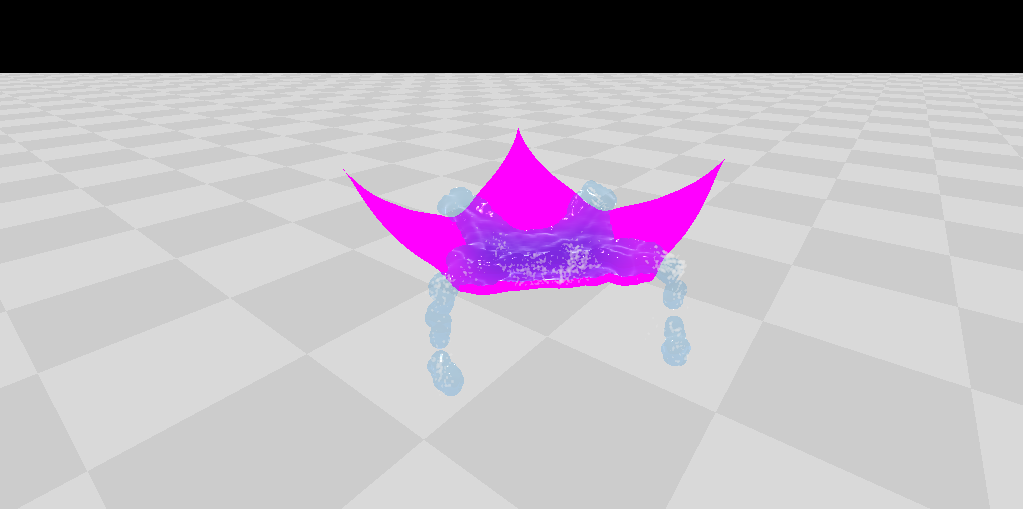
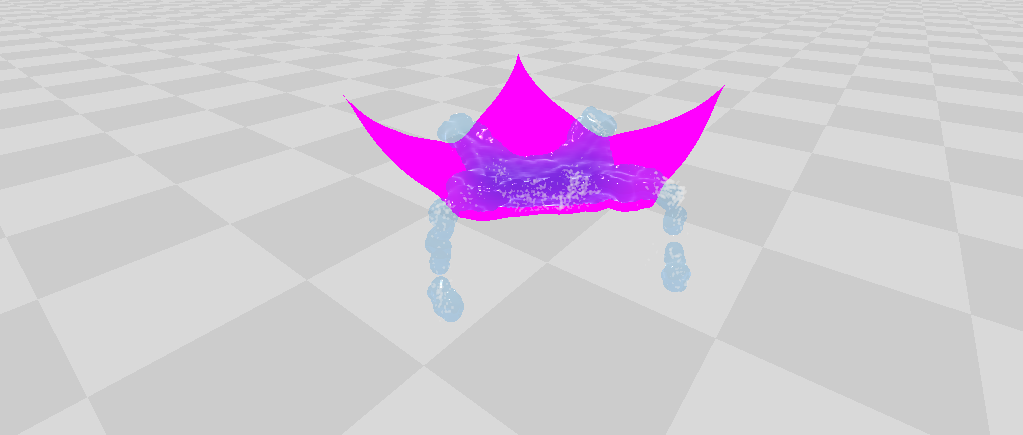
video settings

Changed region(s): [[0.0, 0.0, 1.0, 0.7172], [0.3939, 0.5977, 0.4545, 0.777]]

diff --git a/PositionBasedFluids/ParticleSystem.cpp b/PositionBasedFluids/ParticleSystem.cpp
@@ -8,103 +8,7 @@ static int flag = 1;
 static int frameCounter = 0;
 static const float deltaT = 0.0083f;
 
-ParticleSystem::ParticleSystem() : running(false), moveWall(false), s(new solver) {
-	//Initialize cloth particles
-	/*float stretchStiffness = 0.9f;
-	float bendStiffness = 1.0f;
-	float shearStiffness = 0.9f;
-
-	int baseIndex = count;
-	int c1, c2, c3, c4;
-	for (float i = 1; i < 33; i++) {
-		for (float j = 1; j < 33; j++) {
-			tempParticles[count].invMass = .5f;
-			tempParticles[count].newPos = glm::vec3(float(i) / 20, 2.0f, float(j) / 20);
-			tempParticles[count].oldPos = glm::vec3(float(i) / 20, 2.0f, float(j) / 20);
-			tempParticles[count].velocity = glm::vec3(0.0f);
-			tempParticles[count].phase = 1;
-			if (j == 1.0f && i == 1.0f) {
-				tempParticles[count].invMass = 0;
-				c1 = count;
-			}
-			if (i == 33 - 1 && j == 1.0f) {
-				tempParticles[count].invMass = 0;
-				c2 = count;
-			}
-			if (j == 33 - 1 && i == 33 - 1) {
-				tempParticles[count].invMass = 0;
-				c3 = count;
-			}
-			if (i == 1.0f && j == 33 - 1) {
-				tempParticles[count].invMass = 0;
-				c4 = count;
-			}
-			count++;
-		}
-	}
-	
-	//Horizontal Distance constraints
-	p->numConstraints = 0;
-	for (int j = 0; j < 32; j++) {
-		for (int i = 0; i < 32; i++) {
-			int i0 = j * 32 + i;
-			if (i > 0) {
-				int i1 = j * 32 + i - 1;
-				tempdConstraints.push_back(DistanceConstraint(baseIndex + i0, baseIndex + i1, glm::length(tempParticles[baseIndex + i0].oldPos - tempParticles[baseIndex + i1].oldPos), stretchStiffness));
-				p->numConstraints++;
-			}
-
-			if (i > 1) {
-				int i2 = j * 32 + i - 2;
-				tempdConstraints.push_back(DistanceConstraint(baseIndex + i0, baseIndex + i2, glm::length(tempParticles[baseIndex + i0].oldPos - tempParticles[baseIndex + i2].oldPos), bendStiffness));
-				p->numConstraints++;
-			}
-
-			if (j > 0 && i < 31) {
-				int iDiag = (j - 1) * 32 + i + 1;
-				tempdConstraints.push_back(DistanceConstraint(baseIndex + i0, baseIndex + iDiag, glm::length(tempParticles[baseIndex + i0].oldPos - tempParticles[baseIndex + iDiag].oldPos), shearStiffness));
-				p->numConstraints++;
-			}
-
-			if (j > 0 && i > 0) {
-				int iDiag = (j - 1) * 32 + i - 1;
-				tempdConstraints.push_back(DistanceConstraint(baseIndex + i0, baseIndex + iDiag, glm::length(tempParticles[baseIndex + i0].oldPos - tempParticles[baseIndex + iDiag].oldPos), shearStiffness));
-				p->numConstraints++;
-			}
-		}
-	}
-
-	//Vertical Distance constraints
-	for (int i = 0; i < 32; i++) {
-		for (int j = 0; j < 32; j++) {
-			int i0 = j * 32 + i;
-			if (j > 0) {
-				int i1 = (j - 1) * 32 + i;
-				tempdConstraints.push_back(DistanceConstraint(baseIndex + i0, baseIndex + i1, glm::length(tempParticles[baseIndex + i0].oldPos - tempParticles[baseIndex + i1].oldPos), stretchStiffness));
-				p->numConstraints++;
-			}
-
-			if (j > 1) {
-				int i1 = (j - 2) * 32 + i;
-				tempdConstraints.push_back(DistanceConstraint(baseIndex + i0, baseIndex + i1, glm::length(tempParticles[baseIndex + i0].oldPos - tempParticles[baseIndex + i1].oldPos), bendStiffness));
-				p->numConstraints++;
-			}
-		}
-	}
-
-	//Tethers
-	float stiffness = -0.5f;
-	for (int i = baseIndex; i < count; i++) {
-		if (tempParticles[i].invMass > 0) {
-			tempdConstraints.push_back(DistanceConstraint(c1, i, glm::length(tempParticles[c1].oldPos - tempParticles[i].oldPos), stiffness));
-			tempdConstraints.push_back(DistanceConstraint(c2, i, glm::length(tempParticles[c2].oldPos - tempParticles[i].oldPos), stiffness));
-			tempdConstraints.push_back(DistanceConstraint(c3, i, glm::length(tempParticles[c3].oldPos - tempParticles[i].oldPos), stiffness));
-			tempdConstraints.push_back(DistanceConstraint(c4, i, glm::length(tempParticles[c4].oldPos - tempParticles[i].oldPos), stiffness));
-			p->numConstraints += 4;
-		}
-	}*/
-
-}
+ParticleSystem::ParticleSystem() : running(false), moveWall(false), s(new solver) {}
 
 ParticleSystem::~ParticleSystem() {
 	cudaCheck(cudaFree(s->oldPos));

diff --git a/PositionBasedFluids/Renderer.cpp b/PositionBasedFluids/Renderer.cpp
@@ -3,10 +3,10 @@
 
 using namespace std;
 
-static const int width = 1024;
-static const int height = 512;
-static const float zFar = 20.0f;
-static const float zNear = 1.0f;
+static const int width = 1280;
+static const int height = 720;
+static const float zFar = 200.0f;
+static const float zNear = 5.0f;
 static const float aspectRatio = width / height;
 static const glm::vec2 screenSize = glm::vec2(width, height);
 static const glm::vec2 blurDirX = glm::vec2(1.0f / screenSize.x, 0.0f);
@@ -327,7 +327,7 @@ void Renderer::renderWater(glm::mat4 &projection, glm::mat4 &mView, Camera &cam,
 
 	setMatrix(thickness, mView, "mView");
 	setMatrix(thickness, projection, "projection");
-	setFloat(depth, radius * 4.0f, "pointRadius");
+	setFloat(depth, radius * 2.0f, "pointRadius");
 	setFloat(depth, width / aspectRatio * (1.0f / tanf(cam.zoom * 0.5f)), "pointScale");
 
 	glEnable(GL_BLEND);

diff --git a/PositionBasedFluids/main.cpp b/PositionBasedFluids/main.cpp
@@ -15,8 +15,8 @@
 
 #define cudaCheck(x) { cudaError_t err = x; if (err != cudaSuccess) { printf("Cuda error: %d in %s at %s:%d\n", err, #x, __FILE__, __LINE__); assert(0); } }
 
-static const int width = 1024;
-static const int height = 512;
+static const int width = 1280;
+static const int height = 720;
 static const GLfloat lastX = (width / 2);
 static const GLfloat lastY = (height / 2);
 static float deltaTime = 0.0f;
@@ -153,8 +153,8 @@ void saveVideo() {
 }
 
 void initializeState(ParticleSystem &system, tempSolver &tp, solverParams &tempParams) {
-	//DamBreak scene("DamBreak");
-	FluidCloth scene("FluidCloth");
+	DamBreak scene("DamBreak");
+	//FluidCloth scene("FluidCloth");
 	scene.init(&tp, &tempParams);
 	system.initialize(tp, tempParams);
 }

diff --git a/PositionBasedFluids/Camera.hpp b/PositionBasedFluids/Camera.hpp
@@ -27,7 +27,7 @@ public:
 	float mouseSens;
 	GLfloat zoom;
 
-	Camera() : eye(glm::vec3(0.0f, 3.0f, 6.0f)),
+	Camera() : eye(glm::vec3(-5.0f, 9.0f, 13.0f)),
 		front(glm::normalize(glm::vec3(cos(glm::radians(-90.0f)), 0.0f, sin(glm::radians(-90.0f))))),
 		up(glm::vec3(0.0f, 1.0f, 0.0f)),
 		right(glm::cross(up, (eye - front))),
@@ -39,8 +39,8 @@ public:
 	{}
 
 	glm::mat4 getMView() {
-		//return glm::lookAt(eye, glm::vec3(0.0f, 1.0f, 0.0f), up);
-		return glm::lookAt(eye, eye + front, up);
+		return glm::lookAt(eye, glm::vec3(4.0f, 1.0f, 2.0f), up);
+		//return glm::lookAt(eye, eye + front, up);
 	}
 
 	void wasdMovement(Movement dir, float deltaTime) {

diff --git a/PositionBasedFluids/Scene.hpp b/PositionBasedFluids/Scene.hpp
@@ -23,13 +23,13 @@ public:
 		const float radius = 0.1f;
 		const float restDistance = radius * 0.5f;
 		float3 lower = make_float3(0.0f, 0.1f, 0.0f);
-		int3 dims = make_int3(60, 40, 20);
+		int3 dims = make_int3(68, 48, 88);
 		createParticleGrid(tp, sp, lower, dims, restDistance);
 		
 		sp->radius = radius;
 		sp->restDistance = restDistance;
 		sp->numIterations = 4;
-		sp->numDiffuse = 1024 * 1024;
+		sp->numDiffuse = 1024 * 2048;
 		sp->numParticles = int(tp->positions.size());
 		sp->numCloth = 0;
 		sp->numConstraints = 0;
